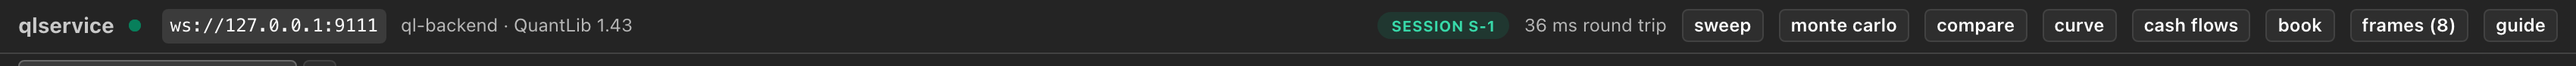
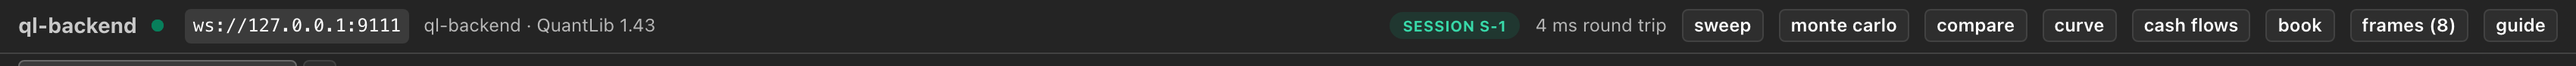
Retake the two screenshots that showed the old status bar label
The status bar was renamed from qlservice to ql-backend, and two images still
showed the old name: the status bar figure on the interface page and the
workbench image the interface page and the README both use. Both are retaken
against a live backend at their original sizes, the status bar at 3400x88 and
the workbench at 1478x812, each just after a reference check.

The text follows what the new captures show. The status bar's alt text names
ql-backend and the 4 ms round trip it now reads, the workbench caption names
session s-2, and the layout diagram in UI.md says ql-backend without
changing its width. The zh_TW catalogue moves with the page, with ids and
translations rewritten together, and a catalogue merge afterwards finds
nothing to change.

Claude-Session: https://claude.ai/code/session_01MJtVZSjTSgWshw7miPwQ9g

Changed region(s): [[0.0, 0.2727, 0.2494, 0.5], [0.53, 0.2955, 0.6235, 0.4773]]

diff --git a/doc/interface.md b/doc/interface.md
@@ -6,7 +6,7 @@
 :alt: The workbench: a status bar, a workbook tab, the market, session and trade columns, the result, and the quote bar along the bottom.
 :width: 100%
 
-The reference check, just after it ran: one live session (`s-9`), the trade it
+The reference check, just after it ran: one live session (`s-2`), the trade it
 priced, and **12.459717** with the greeks that came back beside it.
 ```
 
@@ -20,7 +20,7 @@ curve, cash flows, book and the frame inspector — and **guide**, which opens
 this document in a tab of its own.
 
 ```{figure} images/interface-statusbar.png
-:alt: The status bar: the name qlservice with a green dot, the socket address ws://127.0.0.1:9111, the words ql-backend and QuantLib 1.43, then a session badge reading SESSION S-1, "36 ms round trip", and the panel buttons — sweep, monte carlo, compare, curve, cash flows, book, frames (8) — ending in guide.
+:alt: The status bar: the name ql-backend with a green dot, the socket address ws://127.0.0.1:9111, the words ql-backend and QuantLib 1.43, then a session badge reading SESSION S-1, "4 ms round trip", and the panel buttons — sweep, monte carlo, compare, curve, cash flows, book, frames (8) — ending in guide.
 :width: 100%
 
 The whole of the connection in one line: which service, which QuantLib it

diff --git a/UI.md b/UI.md
@@ -10,7 +10,7 @@ than a preference.
 
 ```
 ┌──────────────────────────────────────────────────────────────────────┐
-│ qlservice ● ws://…   s-3   cancel 1 in flight   4 ms   frames        │  status
+│ ql-backend ● ws://…  s-3   cancel 1 in flight   4 ms   frames        │  status
 ├──────────────────────────────────────────────────────────────────────┤
 │ ● Workbook 1   ● Shocked +1d   +                                     │  tabs
 ├──────────────────────────────────────────────────────────────────────┤
